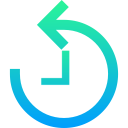
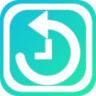
update README.md
#update icon
#update text

diff --git a/README.md b/README.md
@@ -18,6 +18,3 @@ Have a suggestion, doubt or encountered an error? Please open a new [issue](http
 
 ## Learn More 
 To learn more about webextensions development, see this [Mozilla developer Network documentation](https://developer.mozilla.org/en-US/Add-ons/WebExtensions).
-
-## Credits
-<div>Icons made by <a href="https://www.freepik.com/" title="Freepik">Freepik</a> from <a href="https://www.flaticon.com/"title="Flaticon">www.flaticon.com</a> is licensed by <a href="http://creativecommons.org/licenses/by/3.0/" 			    title="Creative Commons BY 3.0" target="_blank">CC 3.0 BY</a></div>
